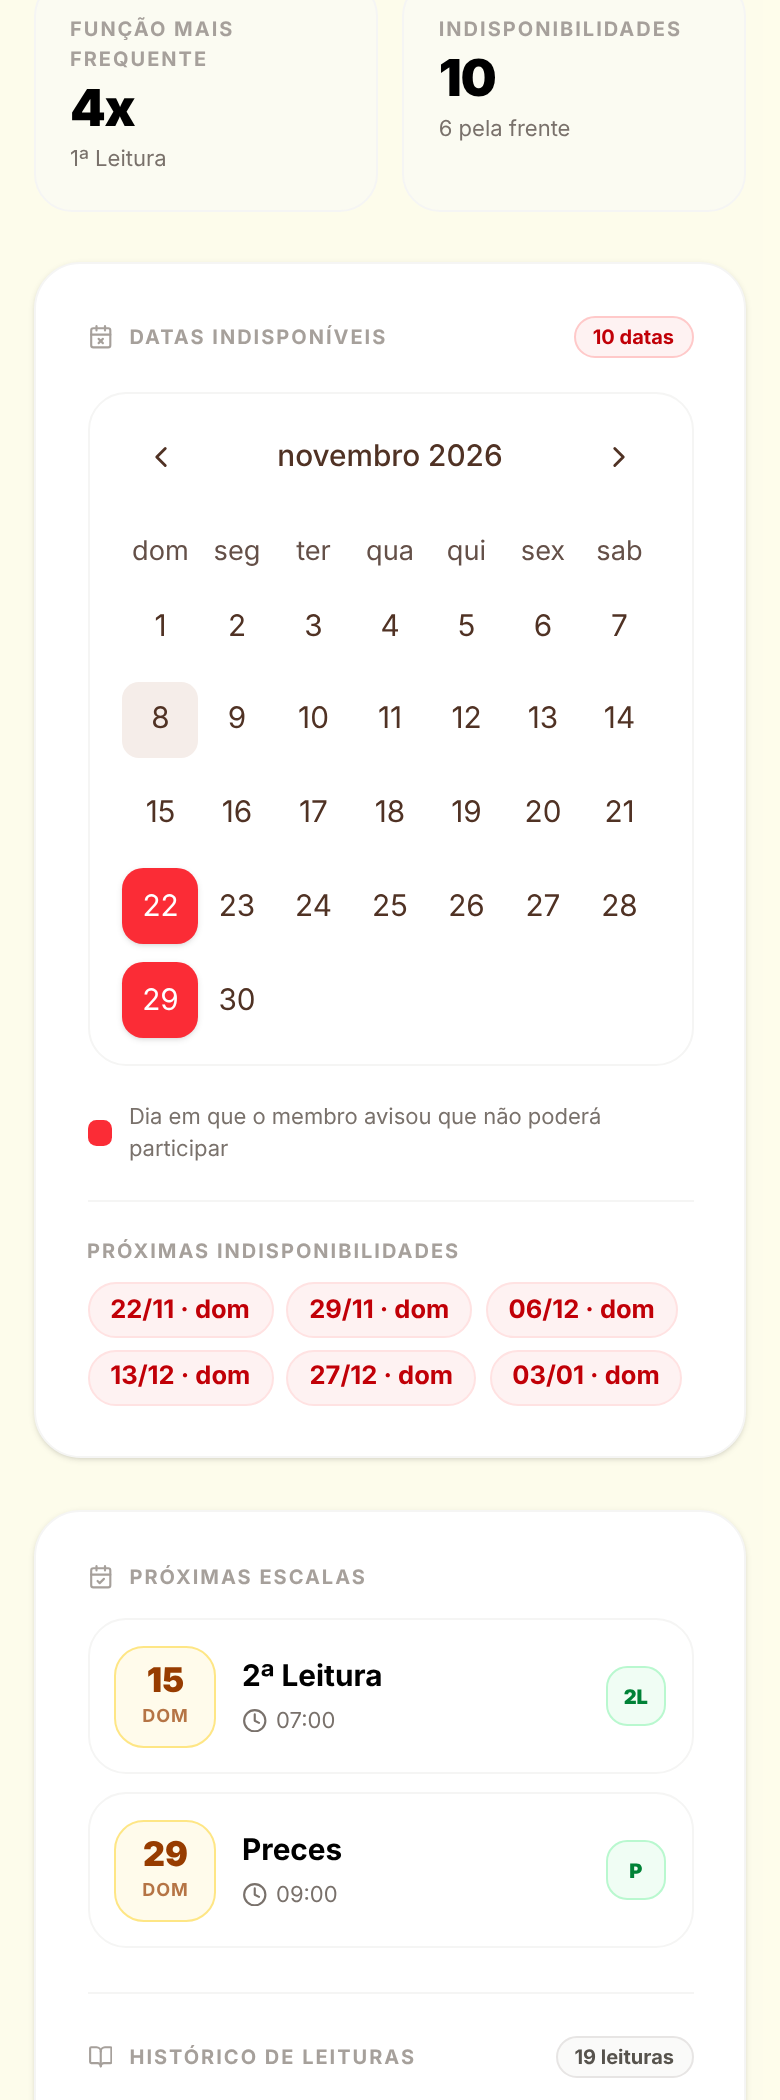
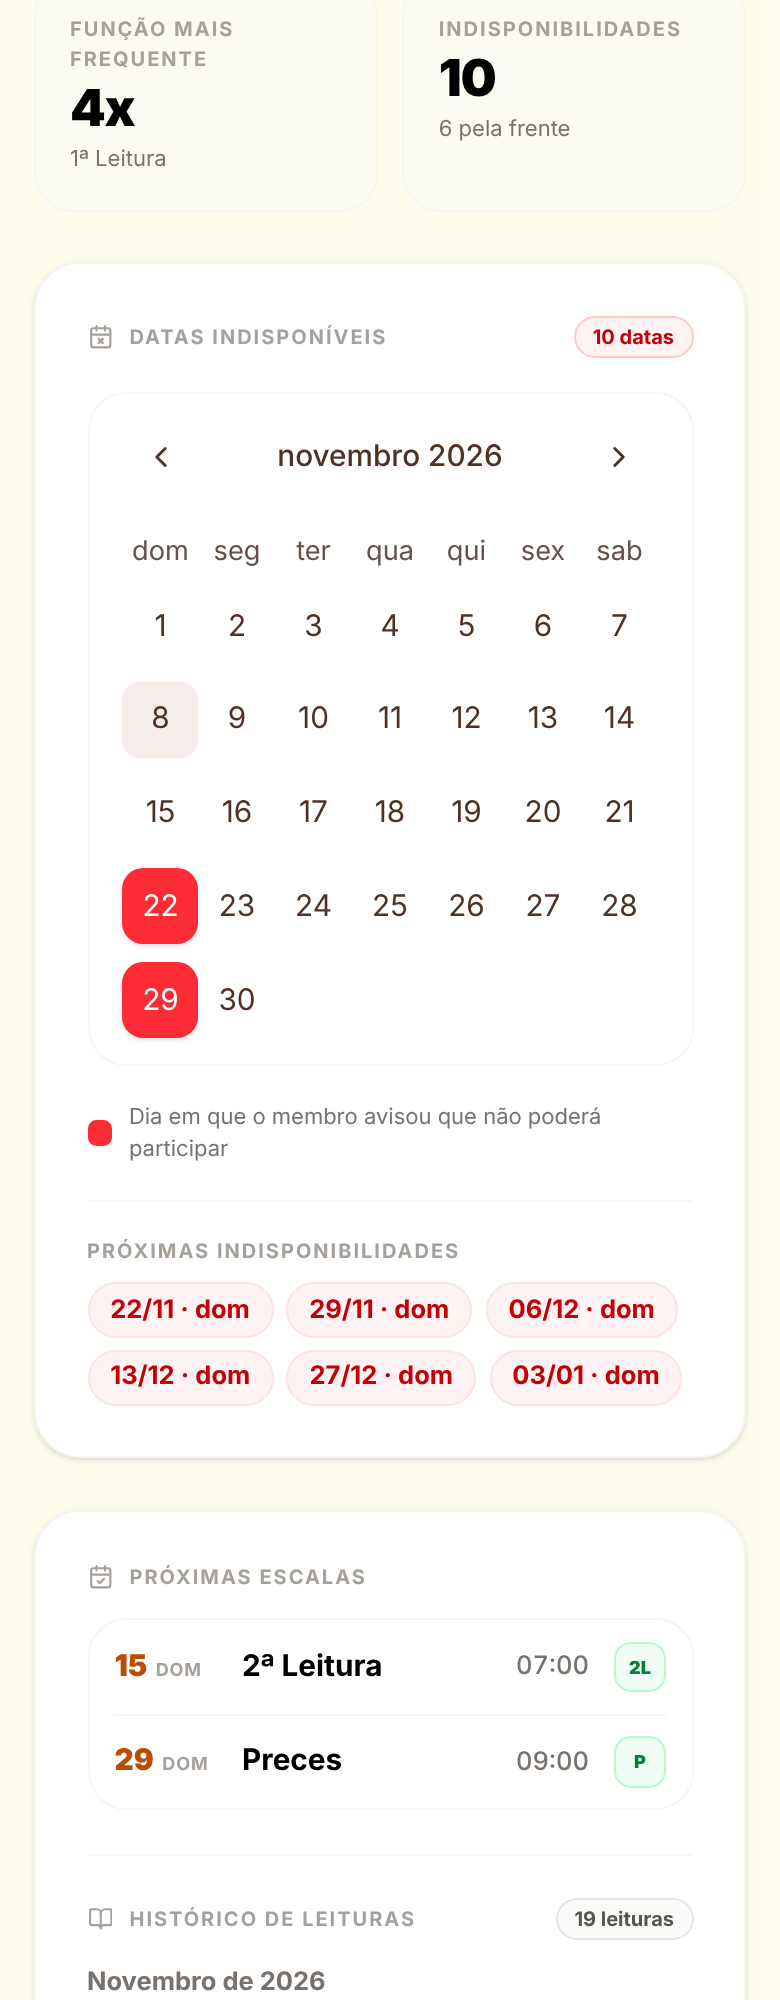
feat(members): compact reading history in member analysis
One line per reading, grouped by month; swap takeover badge and special
celebration go on a second line so the role name is never truncated.

Claude-Session: https://claude.ai/code/session_01CEbSthmXvCo596PRdtwLgk

diff --git a/src/features/members/ui/MemberAnalysisView.tsx b/src/features/members/ui/MemberAnalysisView.tsx
@@ -33,7 +33,7 @@ export const ROLE_LABELS: Record<string, string> = {
 
 // O app guarda as preferências com a chave "6" para Domingo (ver ScheduleForm.checkPreference).
 const WEEKDAYS: Record<string, string> = { "0": "Domingo", "1": "Segunda", "2": "Terça", "3": "Quarta", "4": "Quinta", "5": "Sexta", "6": "Domingo" }
-const PAGE_SIZE = 8
+const PAGE_SIZE = 10
 
 interface MemberAnalysisViewProps {
   profile: Profile
@@ -84,40 +84,38 @@ function Stat({ label, value, hint }: { label: string; value: string; hint?: str
 function ReadingRow({ reading, upcoming }: { reading: MemberReading; upcoming?: boolean }) {
   const date = parseISO(reading.date)
   return (
-    <div className="flex items-center gap-3 rounded-2xl border border-stone-100 bg-white p-3">
-      <div
-        className={cn(
-          "flex h-12 w-12 shrink-0 flex-col items-center justify-center rounded-xl border",
-          upcoming ? "border-amber-200 bg-amber-50 text-amber-800" : "border-stone-100 bg-stone-50 text-stone-800"
-        )}
-      >
-        <span className="text-base font-black leading-none">{format(date, "dd")}</span>
-        <span className="mt-0.5 text-[9px] font-bold uppercase tracking-wider opacity-70">
+    <div className="flex items-center gap-3 py-2.5">
+      <div className="flex w-12 shrink-0 items-baseline gap-1">
+        <span className={cn("text-sm font-black leading-none", upcoming ? "text-amber-700" : "text-stone-800")}>{format(date, "dd")}</span>
+        <span className="text-[9px] font-bold uppercase tracking-wider text-stone-400">
           {format(date, "EEEE", { locale: ptBR }).slice(0, 3)}
         </span>
       </div>
 
-      <div className="min-w-0 flex-1 space-y-0.5">
-        <p className="truncate text-sm font-bold text-stone-800">{ROLE_LABELS[reading.role] ?? reading.role}</p>
-        <p className="flex items-center gap-1 text-[11px] text-stone-500">
-          <Clock className="h-3 w-3" />
-          {reading.time}
-          {reading.specialDescription ? <span className="truncate"> · {reading.specialDescription}</span> : null}
-        </p>
-      </div>
-
-      <div className="flex shrink-0 flex-col items-end gap-1">
-        <span className="flex h-7 w-7 items-center justify-center rounded-lg border border-green-200 bg-green-50 text-[10px] font-black text-green-700">
-          {reading.role}
-        </span>
-        {reading.isSwapTakeover && (
-          <Badge className="border-amber-200 bg-amber-100 px-1.5 py-0 text-[8px] font-bold uppercase tracking-wider text-amber-700 hover:bg-amber-100">
-            Troca
-          </Badge>
+      <div className="min-w-0 flex-1">
+        <p className="text-sm font-bold text-stone-800">{ROLE_LABELS[reading.role] ?? reading.role}</p>
+        {(reading.isSwapTakeover || reading.specialDescription) && (
+          <div className="mt-0.5 flex min-w-0 items-center gap-1.5">
+            {reading.isSwapTakeover && (
+              <Badge className="shrink-0 border-amber-200 bg-amber-100 px-1.5 py-0 text-[8px] font-bold uppercase tracking-wider text-amber-700 hover:bg-amber-100">
+                Troca
+              </Badge>
+            )}
+            {reading.specialDescription && <span className="truncate text-[10px] text-stone-400">{reading.specialDescription}</span>}
+          </div>
         )}
       </div>
+
+      <span className="shrink-0 text-xs font-medium tabular-nums text-stone-500">{reading.time}</span>
+      <span className="flex h-6 w-6 shrink-0 items-center justify-center rounded-md border border-green-200 bg-green-50 text-[9px] font-black text-green-700">
+        {reading.role}
+      </span>
     </div>
   )
+}
+
+function ReadingList({ children }: { children: React.ReactNode }) {
+  return <div className="divide-y divide-stone-100 rounded-2xl border border-stone-100 bg-white px-3">{children}</div>
 }
 
 export function MemberAnalysisView({ profile, readings, unavailableDates, today }: MemberAnalysisViewProps) {
@@ -349,11 +347,11 @@ export function MemberAnalysisView({ profile, readings, unavailableDates, today 
         {upcoming.length > 0 && (
           <div className="space-y-3">
             <SectionLabel icon={CalendarCheck}>Próximas escalas</SectionLabel>
-            <div className="space-y-2">
+            <ReadingList>
               {upcoming.map((reading) => (
                 <ReadingRow key={reading.slotId} reading={reading} upcoming />
               ))}
-            </div>
+            </ReadingList>
           </div>
         )}
 
@@ -370,15 +368,15 @@ export function MemberAnalysisView({ profile, readings, unavailableDates, today 
               Este membro ainda não realizou leituras.
             </p>
           ) : (
-            <div className="space-y-5">
+            <div className="space-y-4">
               {pastByMonth.map((group) => (
-                <div key={group.key} className="space-y-2">
+                <div key={group.key} className="space-y-1.5">
                   <p className="text-xs font-bold text-stone-500">{group.label}</p>
-                  <div className="space-y-2">
+                  <ReadingList>
                     {group.items.map((reading) => (
                       <ReadingRow key={reading.slotId} reading={reading} />
                     ))}
-                  </div>
+                  </ReadingList>
                 </div>
               ))}
 

diff --git a/src/features/members/ui/MemberAnalysisView.test.tsx b/src/features/members/ui/MemberAnalysisView.test.tsx
@@ -63,7 +63,7 @@ test("separates past readings from upcoming ones and summarises them", () => {
 test("limits the history and reveals more on demand", () => {
   const readings = Array.from({ length: 12 }, (_, i) => reading(`r${i}`, `2026-0${(i % 9) + 1}-1${i % 9}`))
   render(<MemberAnalysisView profile={profile} readings={readings} unavailableDates={[]} today={TODAY} />)
-  expect(screen.getByRole("button", { name: /Mostrar mais \(4\)/ })).toBeInTheDocument()
+  expect(screen.getByRole("button", { name: /Mostrar mais \(2\)/ })).toBeInTheDocument()
 })
 
 test("lists unavailable dates and ignores duplicates", () => {
